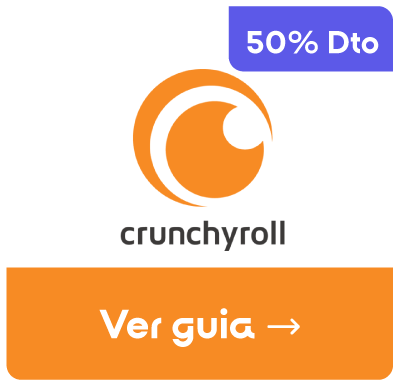
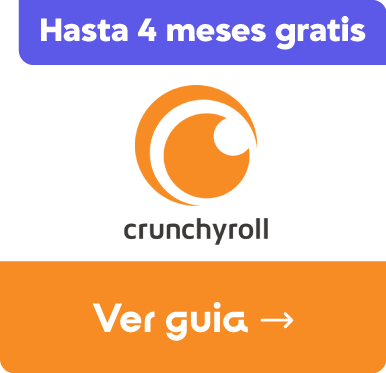
parte1

Changed region(s): [[0.0311, 0.0, 1.0, 0.6488], [0.0, 0.6783, 1.0, 1.0], [0.2176, 0.7962, 0.7772, 0.9142]]

diff --git a/src/components/SectionFive/sectionFive.jsx b/src/components/SectionFive/sectionFive.jsx
@@ -9,9 +9,6 @@ import essencial from '../../assets/Plan-simplia-esencial.png';
 import conectado from '../../assets/Plan-simplia-conectado.png';
 import total from '../../assets/Plan-simplia-total.png';
 
-import essencial_mobile from '../../assets/Plan-simplia-esencial-mobile.png';
-import conectado_mobile from '../../assets/Plan-simplia-conectado-mobile.png';
-import total_mobile from '../../assets/Plan-simplia-total -mobile.png';
 
 export const SectionFive = () => {
   const [isMobile, setIsMobile] = useState(window.innerWidth < 768);
@@ -22,11 +19,7 @@ export const SectionFive = () => {
     return () => window.removeEventListener('resize', handleResize);
   }, []);
 
-  const images = {
-    essencial: isMobile ? essencial_mobile : essencial,
-    conectado: isMobile ? conectado_mobile : conectado,
-    total: isMobile ? total_mobile : total,
-  };
+
 
   return (
     <section className="section-five" id="membresias">
@@ -34,15 +27,15 @@ export const SectionFive = () => {
       <img src={subtitle} alt="subtitle-linea" />
       <div className="plans-container">
         <div className="plan-card">
-          <img src={images.conectado} alt="conectado" className="plan-image" />
+          <img src={conectado} alt="conectado" className="plan-image" />
           <button><img src={btn2} alt="boton morado" /></button>
         </div>
         <div className="plan-card">
-          <img src={images.essencial} alt="essencial" className="plan-image" />
+          <img src={essencial} alt="essencial" className="plan-image" />
           <button><img src={btn1} alt="boton verde" /></button>
         </div>
         <div className="plan-card">
-          <img src={images.total} alt="total" className="plan-image" />
+          <img src={total} alt="total" className="plan-image" />
           <button><img src={btn2} alt="total" /></button>
         </div>
       </div>

diff --git a/src/components/SectionSix/sectionSix.jsx b/src/components/SectionSix/sectionSix.jsx
@@ -9,17 +9,17 @@ import canva from '../../assets/Simplia-Canva.png'
 import max from '../../assets/Simplia-Max.png'
 import paramount from '../../assets/Simplia-paramount.png'
 import prime from '../../assets/Simplia-Prime-video.png'
-import spotify from '../../assets/Simplia-Spotify.png'
+import dezzer from '../../assets/Simplia-Spotify.png'
 import crunchy from '../../assets/Simpli-crunchyroll.png'
 
-import guiaNetflix from '../../assets/GUIA-DISNEY.jpg'
-import guiaDisney from '../../assets/GUIA-DISNEY.jpg'
-import guiaCanva from '../../assets/GUIA-DISNEY.jpg'
-import guiaMax from '../../assets/GUIA-DISNEY.jpg'
-import guiaParamount from '../../assets/GUIA-DISNEY.jpg'
-import guiaPrime from '../../assets/GUIA-DISNEY.jpg'
-import guiaSpotify from '../../assets/GUIA-DISNEY.jpg'
-import guiaCrunchy from '../../assets/GUIA-DISNEY.jpg'
+import guiaNetflix from '../../assets/GUIA-NETFLIX.jpeg'
+import guiaDisney from '../../assets/GUIA-DISNEY.jpeg'
+import guiaCanva from '../../assets/GUIA-CANVA.jpeg'
+import guiaMax from '../../assets/GUIA-MAX.jpeg'
+import guiaParamount from '../../assets/GUIA-PARAMOUNT.jpeg'
+import guiaPrime from '../../assets/GUIA-PRIME.jpeg'
+// import guiadezzer from '../../assets/GUIA-NETFLIX.jpeg'
+import guiaCrunchy from '../../assets/GUIA-CRUNCHY.jpeg'
 
 
 const plataformas = [
@@ -27,7 +27,7 @@ const plataformas = [
   { img: netflix, alt: "Netflix", guia: guiaNetflix, className: "netflix-card" },
   { img: max, alt: "Max", guia: guiaMax },
   { img: prime, alt: "Prime Video", guia: guiaPrime },
-  { img: spotify, alt: "Spotify", guia: guiaSpotify },
+  // { img: dezzer, alt: "dezzer", guia: guiadezzer },
   { img: paramount, alt: "Paramount+", guia: guiaParamount },
   { img: canva, alt: "Canva", guia: guiaCanva },
   { img: crunchy, alt: "Crunchyroll", guia: guiaCrunchy }

diff --git a/src/components/Hero/Hero.jsx b/src/components/Hero/Hero.jsx
@@ -1,7 +1,7 @@
 import React, { useState, useEffect, useRef } from "react";
 import "../Hero/Hero.css";
 import netflix from "../../assets/netflix.png";
-import spotify from "../../assets/spotify.png";
+import spotify from "../../assets/dezzer.png";
 import disney from "../../assets/disney.png";
 import canva from "../../assets/canva.png";
 import max from "../../assets/max.png";
@@ -15,12 +15,15 @@ import tarjeta3 from '../../assets/Tarjeta-6.png'
 import tarjeta4 from '../../assets/Tarjeta-8.png'
 import paramount from '../../assets/paramount.png'
 import crunchy from '../../assets/crunchy.png'
+import prime from '../../assets/prime.png'
+import directvgo from '../../assets/directvgo.png'
+
 
 export const Hero = () => {
   const [current, setCurrent] = useState(0);
   const timerRef = useRef();
 
-  const images = [netflix, tarjeta1 ,spotify,tarjeta2, canva,tarjeta3, disney, tarjeta4, max, crunchy,paramount]; 
+  const images = [netflix, tarjeta1 ,spotify,tarjeta2, canva,tarjeta3, disney, tarjeta4, max, crunchy,paramount,prime, directvgo]; 
 
   const next = () => {
     setCurrent((prev) => (prev + 1) % images.length);
